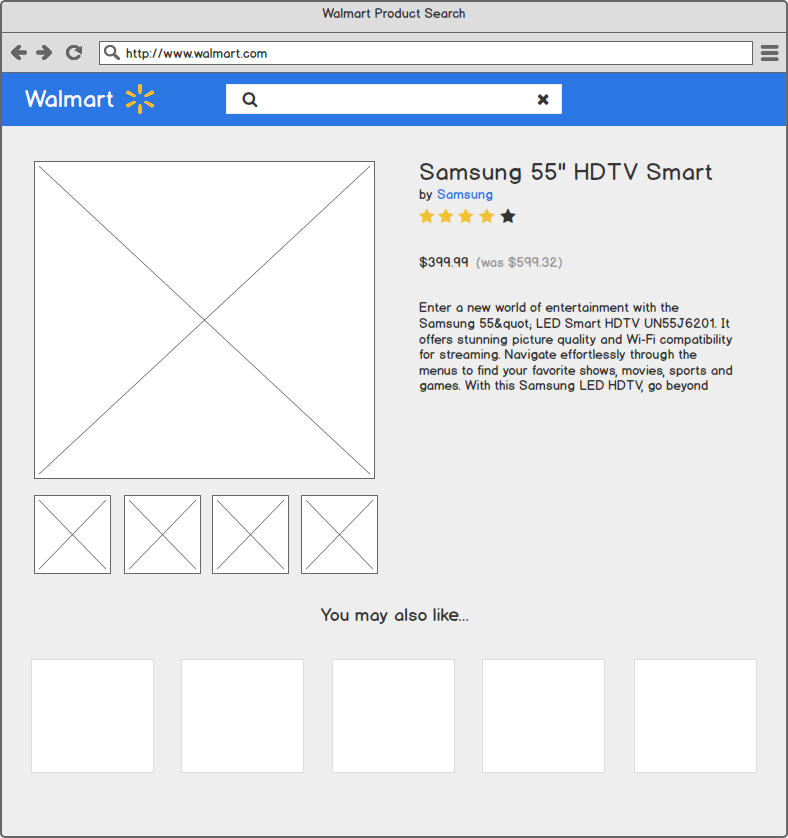
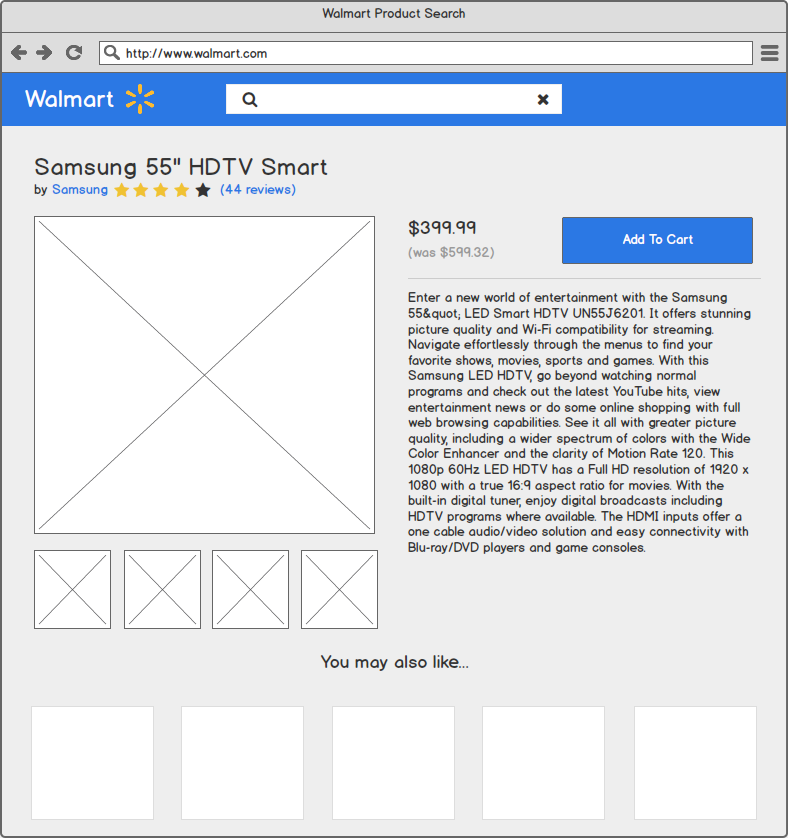
adding image switcher component

diff --git a/src/components/ImageSwitcher.js b/src/components/ImageSwitcher.js
@@ -1,0 +1,89 @@
+import React from 'react';
+import PropTypes from 'prop-types';
+
+// muicss componnets
+import Container from 'muicss/lib/react/container';
+import Panel from 'muicss/lib/react/panel';
+import Row from 'muicss/lib/react/row';
+import Col from 'muicss/lib/react/col';
+
+// custom components
+import Image from './Image';
+
+class ImageSwitcher extends React.Component {
+    constructor(props){
+        super(props);
+
+        this.viewImage = this.viewImage.bind(this);
+
+        this.state = {
+            activeImage : {},
+            images : []
+        };
+    }
+
+    componentWillReceiveProps(nextProps){
+        //pull the primary image from array
+        let primary = nextProps.images.filter( image => {
+            return image.entityType === "PRIMARY";
+        })[0];
+
+        let images = [];
+
+        //keep it, we'll want to show it
+        images.push(primary);
+
+        //pull 4 secondary images from the stack
+        for(var image of nextProps.images){
+            if(image !== primary){
+                images.push(image);
+            }
+            if(images.length === 4){
+                break;
+            }
+        }
+
+        // set the active image
+        this.setState({
+            images : images,
+            activeImage: images[0]
+        });
+    }
+
+    viewImage(image){
+        this.setState({
+            activeImage : image
+        });
+    }
+
+    render(){
+        return(
+            <Container>
+                <Row>
+                    <Image fullwidth src={this.state.activeImage.largeImage}/>
+                </Row>
+                <Row>
+                    {this.state.images.map((image, index)=> {
+                        return (
+                            <Col xs={3} sm={3} md={3} lg={3} xl={3}>
+                                <Image src={image.thumbnailImage} key={index} onClick={()=>{this.viewImage(image)}}/>
+                            </Col>
+                        )
+                    })}
+                </Row>
+            </Container>
+        )
+    }
+}
+
+
+ImageSwitcher.propTypes = {
+    images : PropTypes.array.isRequired
+};
+
+ImageSwitcher.defaultProps = {
+    images : []
+};
+
+
+export default ImageSwitcher;

diff --git a/src/containers/Details/Details.js b/src/containers/Details/Details.js
@@ -9,6 +9,7 @@ import WalmartAPI from '../../api/walmart.api.js';
 
 import Carousel from '../../components/Carousel';
 import ItemSummary from '../../components/ItemSummary';
+import ImageSwitcher from '../../components/ImageSwitcher';
 
 class Details extends Component {
     constructor(props){
@@ -57,10 +58,12 @@ class Details extends Component {
         return (
             <Container>
                 <Row>
-
+                    <Col xs={12} sm={12} md={6} lg={4} xl={4} lg-offset={1} xl-offset={1}>
+                        <ImageSwitcher images={this.state.itemDetails.imageEntities}/>
+                    </Col>
                 </Row>
                 <Row>
-                    <div className="mui--text-center">Recommended Products</div>
+                    <div className="mui--text-center">You may also like...</div>
                 </Row>
                 <Row>
                     <Carousel>

diff --git a/src/components/ItemSummary.js b/src/components/ItemSummary.js
@@ -1,7 +1,7 @@
 import React from 'react';
 import PropTypes from 'prop-types';
 
-// muicss componnets
+// muicss components
 import Container from 'muicss/lib/react/container';
 import Panel from 'muicss/lib/react/panel';
 import Row from 'muicss/lib/react/row';
